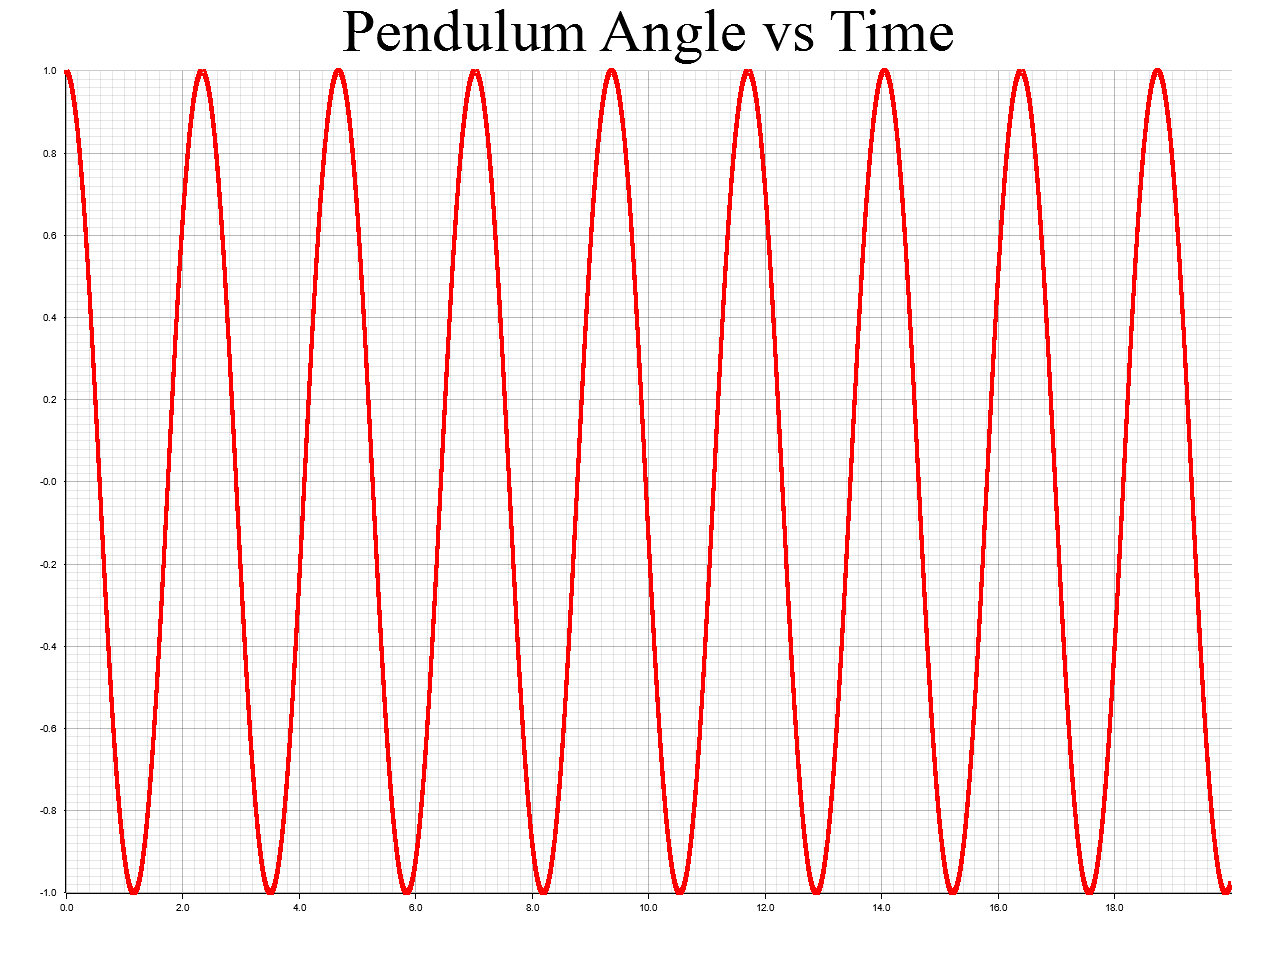
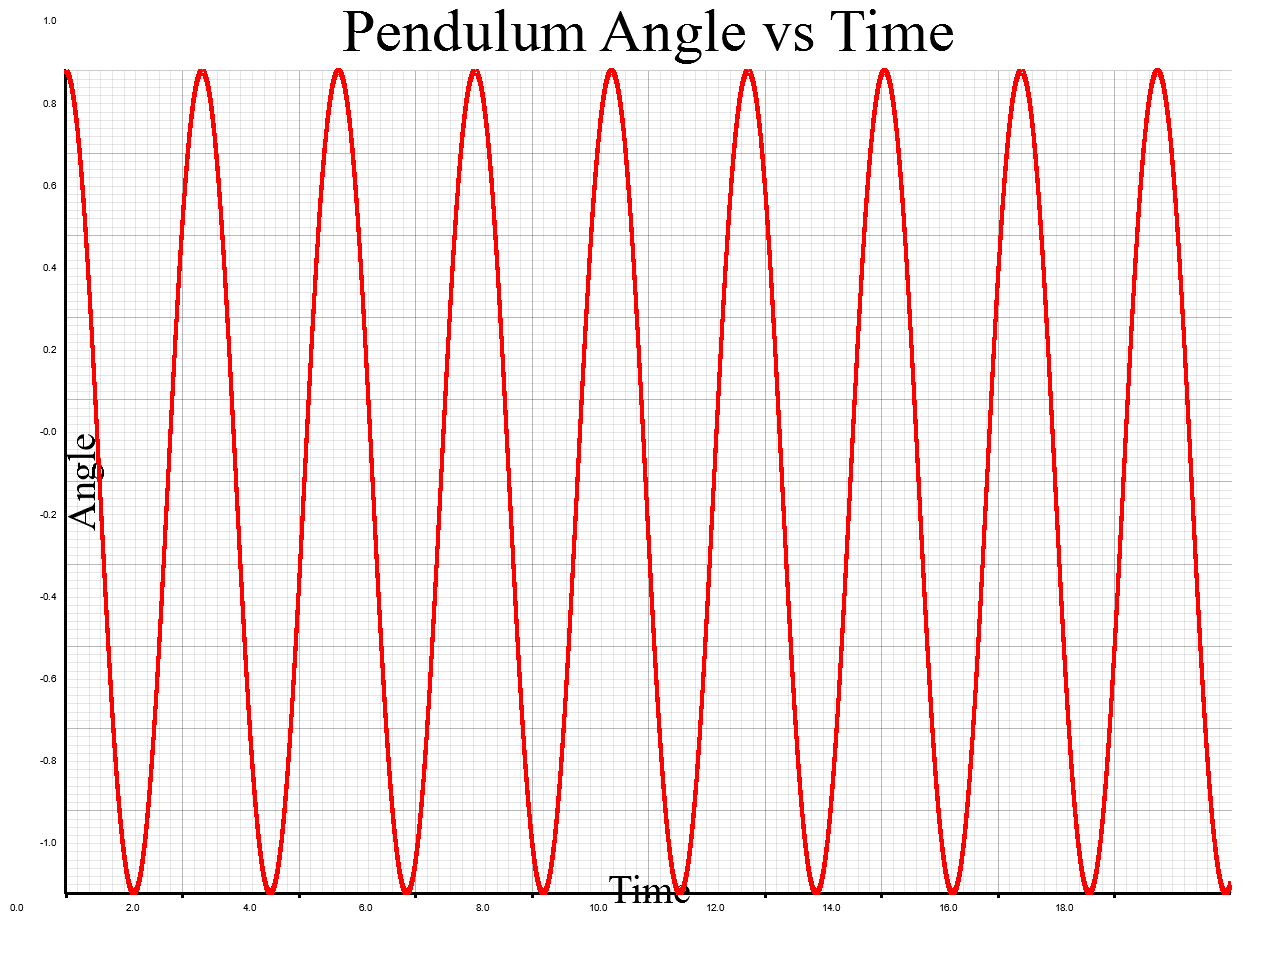
Added axis descriptions.

Changed region(s): [[0.0312, 0.4375, 0.0938, 0.5625], [0.4688, 0.9062, 0.5312, 0.9688], [0.0312, 0.9062, 0.0625, 0.9375]]

diff --git a/src/main.rs b/src/main.rs
@@ -57,6 +57,7 @@ fn save_raw_data(data: &[(f64, f64)]) -> Result<(), std::io::Error> {
 fn plot_data(data: Vec<(f64, f64)>) -> Result<(), Box<dyn std::error::Error>> {
     use plotters::prelude::*;
 
+    // Plot settings
     let dimensions = (1280, 960);
     let top_margin = 0;
     let left_margin = dimensions.0 / 20;
@@ -70,25 +71,39 @@ fn plot_data(data: Vec<(f64, f64)>) -> Result<(), Box<dyn std::error::Error>> {
 
     let background_color = &WHITE;
     let curve_width = 4;
-    let curve_color = &RED;
-    let curve_style = curve_color.stroke_width(curve_width);
+    let curve_style = RED.stroke_width(curve_width);
 
     let (x_bounds, y_bounds) = calculate_plot_bounds(&data).ok_or("Couldn't find bounds because data was empty")?;
+    let x_axis_description = "Time";
+    let y_axis_description = "Angle";
+    let axes_description_font = caption_font;
+    let axes_description_font_size = 50;
+    let axes_description_style = (axes_description_font, axes_description_font_size).into_font();
+    let axes_style = BLACK.stroke_width(2);
 
+    // Create plot file 
     let root = BitMapBackend::new(PLOT_OUTPUT_PATH, dimensions).into_drawing_area();
-    root.fill(background_color)?;
-    let root = root.margin(top_margin, bottom_margin, left_margin, right_margin);
+    root.fill(background_color)?; // set background color
+    let root = root.margin(top_margin, bottom_margin, left_margin, right_margin); // set margins
 
+    // Create chart area
     let mut chart = ChartBuilder::on(&root)
-        .caption(caption, caption_style)
-        .x_label_area_size(x_bounds.end - x_bounds.start)
-        .y_label_area_size(y_bounds.end - y_bounds.start)
-        .build_cartesian_2d(x_bounds, y_bounds)?;
+        .caption(caption, caption_style) // set caption
+        .x_label_area_size(x_bounds.end - x_bounds.start) // set x bounds
+        .y_label_area_size(y_bounds.end - y_bounds.start) //set y bounds
+        .build_cartesian_2d(x_bounds, y_bounds)?; // 2d cartesian chart
 
+    // draw axes and grid lines
+    // TODO: fix position of descriptions
     chart
         .configure_mesh()
+        .axis_style(axes_style)
+        .x_desc(x_axis_description)
+        .y_desc(y_axis_description)
+        .axis_desc_style(axes_description_style)
         .draw()?;
 
+    // draw the curve
     chart.draw_series(LineSeries::new(data, curve_style))?;
 
     root.present()?;
